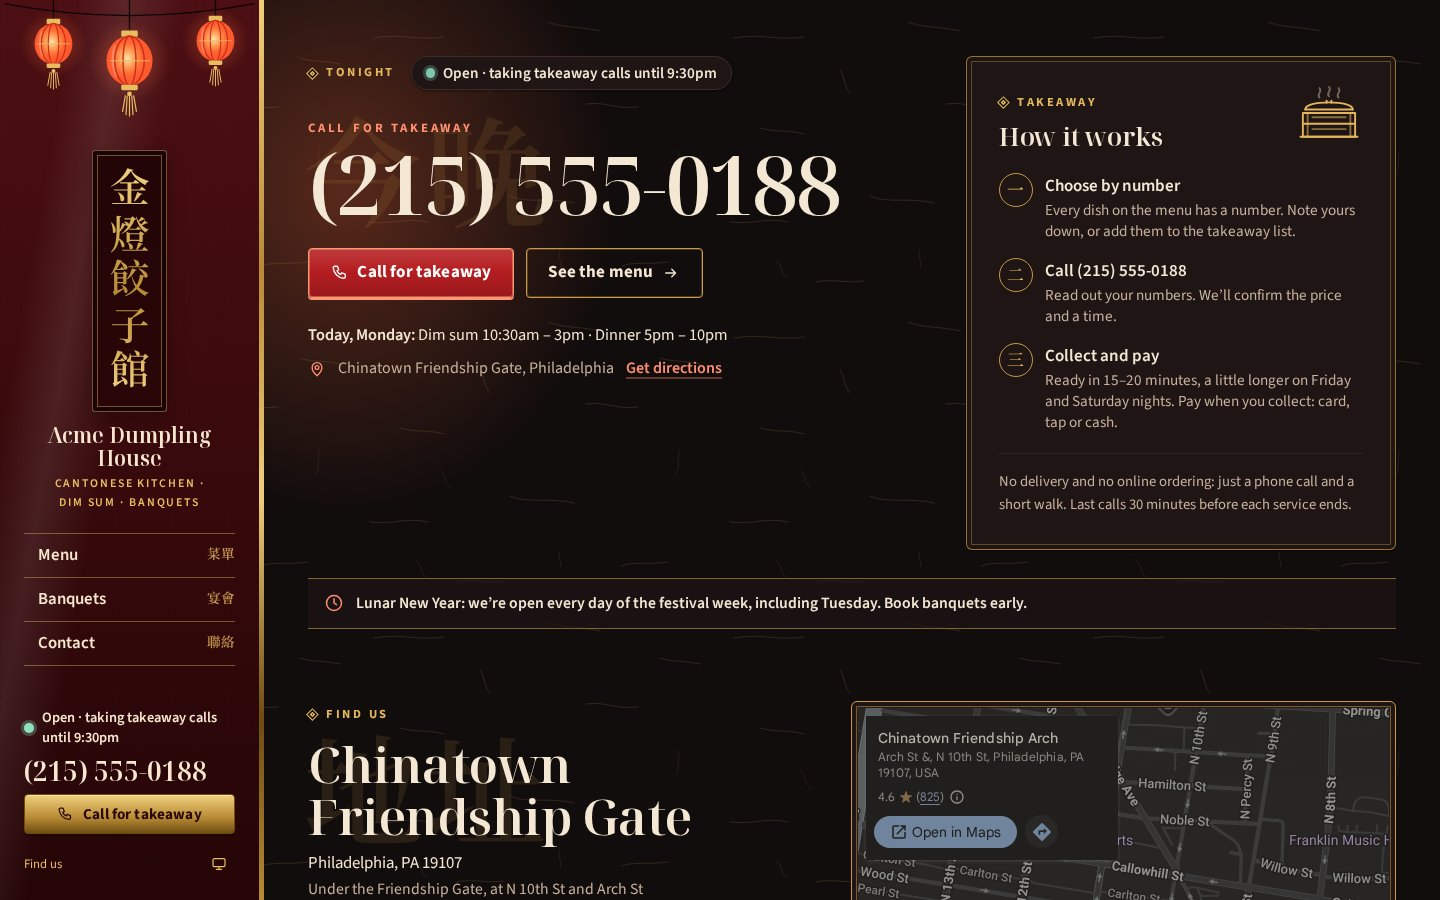
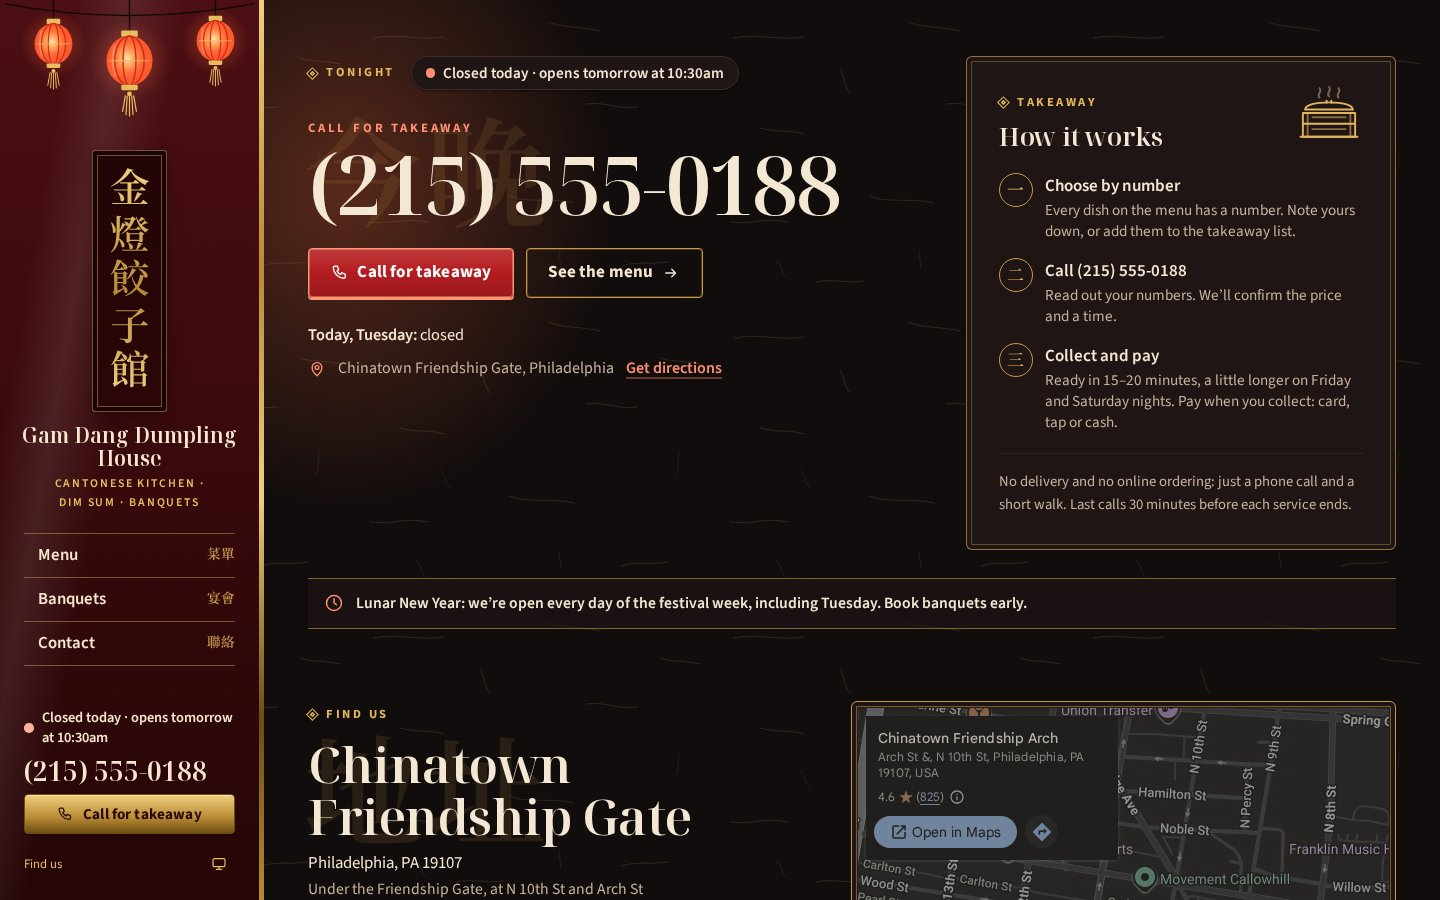
Update design

diff --git a/content/restaurant.ts b/content/restaurant.ts
@@ -87,14 +87,14 @@ const dinner = { label: 'Dinner', opens: '17:00', closes: '22:00' } as const;
 const lateDinner = { label: 'Dinner', opens: '17:00', closes: '23:00' } as const;
 
 export const restaurant: Restaurant = {
-  name: 'Acme Dumpling House',
+  name: 'Gam Dang Dumpling House',
   nameZh: '金燈餃子館',
   sealZh: '金燈',
   tagline: 'Cantonese kitchen · dim sum · banquets',
   introduction:
     'A family-run Cantonese restaurant under the Friendship Gate. Dumplings folded by hand every morning, wok-fired dinners every night, and a number to call for takeaway.',
   story: [
-    'Grandma Lau opened the first Acme Dumpling House with four tables, one steamer stack and a menu written on the back of a calendar. The dumplings were folded at the front window so people walking past could watch.',
+    'Grandma Lau opened the first Gam Dang Dumpling House with four tables, one steamer stack and a menu written on the back of a calendar. The dumplings were folded at the front window so people walking past could watch.',
     'Three generations on, the window table is still where the dumplings are folded, from 7am every day. Her son runs the woks, her granddaughter runs the floor and the phones, and the menu still has the numbers the regulars know by heart.',
   ],
   storyPoints: [

diff --git a/lib/site.ts b/lib/site.ts
@@ -1,7 +1,7 @@
 // Public values resolved by lib/config.mjs and substituted by Next.js at build time.
 // No runtime configuration API is needed to render the website.
 export const site = {
-  name: process.env.NEXT_PUBLIC_SITE_NAME ?? 'Acme Dumpling House',
+  name: process.env.NEXT_PUBLIC_SITE_NAME ?? 'Gam Dang Dumpling House',
   description: process.env.NEXT_PUBLIC_SITE_DESCRIPTION ?? '',
   domain: process.env.NEXT_PUBLIC_SITE_DOMAIN ?? '',
   /** IANA time zone for opening hours (site.config.json `timeZone`), or '' when not set. */

diff --git a/app/tailwind.input.css b/app/tailwind.input.css
@@ -1,4 +1,4 @@
-/* Acme Dumpling House styles: Tailwind CSS v4 plus this template's customizations.
+/* Gam Dang Dumpling House styles: Tailwind CSS v4 plus this template's customizations.
    Components use Tailwind utility classes; this file holds what utilities can't:
    1. colour tokens for light/dark   2. the Tailwind theme built from them
    3. base element styles           4. shared building blocks (.button, .seal, .eyebrow, ...)

diff --git a/README.md b/README.md
@@ -4,7 +4,7 @@ An elegant red-lacquer and gold theme for Chinese restaurants and takeaways: a n
 
 It exports to plain static files, deploys to GitHub Pages (custom domain or `/repository/` path) and works with no backend. A tall lacquered signboard runs down the left of the page with the name in vertical gold lettering and a string of lanterns; the menu is a dense numbered list on rice paper. Light mode is "lacquer and rice paper". Dark mode is "lantern-lit night": lacquer black, an oxblood signboard and lanterns that glow. Both follow the visitor's device unless they pick one with the toggle.
 
-**Acme Dumpling House (金燈餃子館)**, its family story, menu, prices, banquets and contact details are fictitious placeholders. The sample address is a public landmark, the Chinatown Friendship Gate (N 10th St and Arch St, Philadelphia, PA), so the map has something real to show. Replace all of them with your own.
+**Gam Dang Dumpling House (金燈餃子館)**, its family story, menu, prices, banquets and contact details are fictitious placeholders. The sample address is a public landmark, the Chinatown Friendship Gate (N 10th St and Arch St, Philadelphia, PA), so the map has something real to show. Replace all of them with your own.
 
 ## Pages
 
@@ -158,7 +158,7 @@ The footer ends with "with ❤ [jamstacks.net](https://jamstacks.net)". It's 
 
 ```json
 {
-  "name": "Acme Dumpling House",
+  "name": "Gam Dang Dumpling House",
   "description": "A family-run Cantonese restaurant by Chinatown's Friendship Gate: the numbered menu, weekend dim sum, banquets, opening hours and the number to call for takeaway.",
   "domain": "next-chinese-lantern.jamstacks.net",
   "timeZone": "America/New_York",
@@ -270,7 +270,7 @@ jamstacks/              optional template publishing metadata and gallery captur
 
 ## Before publishing your website
 
-- Replace Acme Dumpling House, its Chinese name and seal characters, the address (and its `note`), directions, email, phone, menu, prices, banquets, story, FAQs and social links with your own details. Have a fluent reader check every Chinese name.
+- Replace Gam Dang Dumpling House, its Chinese name and seal characters, the address (and its `note`), directions, email, phone, menu, prices, banquets, story, FAQs and social links with your own details. Have a fluent reader check every Chinese name.
 - Set your real services and `lastOrdersMinutes`, and `timeZone` in `site.config.json`. Check the open status at a few times of day.
 - Choose your 4–6 featured dishes and the weekend dim sum favourites.
 - Replace `domain` in `site.config.json` with your own domain (or `""`). Update the site title/description, icon and social preview image.

diff --git a/AGENTS.md b/AGENTS.md
@@ -7,7 +7,7 @@ setup, content editing, deployment and the optional Jamstacks contact form.
 
 - Work in this repository on its current branch unless asked otherwise.
 - Preserve existing changes. Leave edits uncommitted; push or deploy only when requested.
-- Adapt the website to its owner's requested content and features. Replace the sample restaurant (Acme Dumpling
+- Adapt the website to its owner's requested content and features. Replace the sample restaurant (Gam Dang Dumpling
   House, 金燈餃子館), menu, prices, banquets, address, hours and contact details with the owner's real details; the
   fictional examples are starting content.
 
